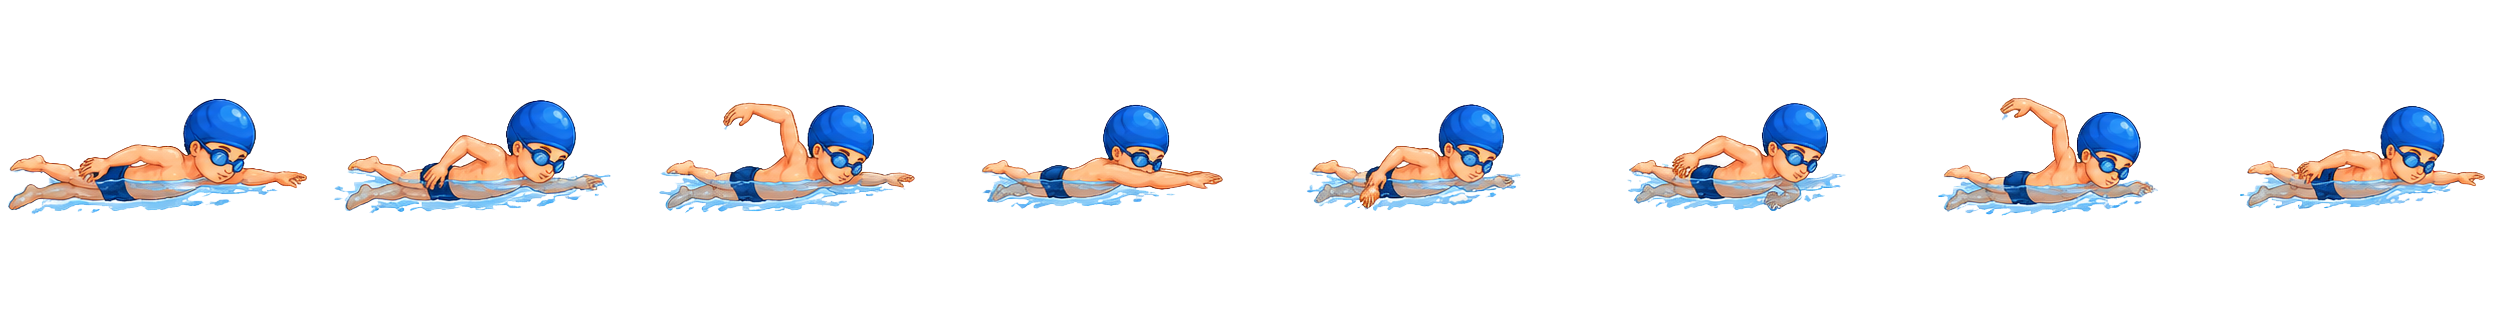
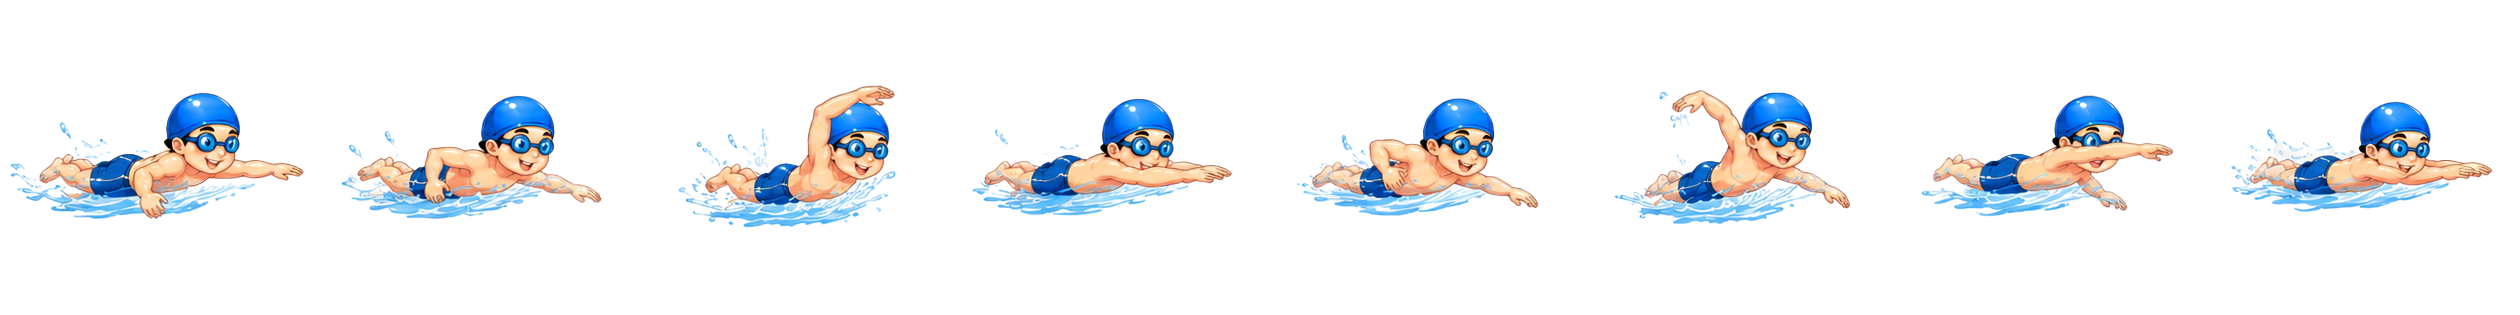
normalizacion

Changed region(s): [[0.0, 0.2571, 0.9905, 0.7143]]

diff --git a/swimtitans_ejemplo/lib/widgets/sprite_nadador.dart b/swimtitans_ejemplo/lib/widgets/sprite_nadador.dart
@@ -17,6 +17,12 @@ class ConfiguracionSpriteNadador {
   final double ancho;
   final double alto;
   final Duration duracionFrame;
+
+  Duration get duracionCiclo {
+    return Duration(
+      milliseconds: duracionFrame.inMilliseconds * cantidadFrames,
+    );
+  }
 }
 
 class SpriteNadador extends StatelessWidget {
@@ -42,8 +48,32 @@ class SpriteNadador extends StatelessWidget {
   static const configuracionLibre = ConfiguracionSpriteNadador(
     ruta: 'assets/images/swimmers/libre.png',
     cantidadFrames: 8,
-    ancho: 132,
-    alto: 80,
+    ancho: 100,
+    alto: 100,
+    duracionFrame: Duration(milliseconds: 100),
+  );
+
+  static const configuracionDorso = ConfiguracionSpriteNadador(
+    ruta: 'assets/images/swimmers/dorso.png',
+    cantidadFrames: 8,
+    ancho: 100,
+    alto: 100,
+    duracionFrame: Duration(milliseconds: 100),
+  );
+
+  static const configuracionPecho = ConfiguracionSpriteNadador(
+    ruta: 'assets/images/swimmers/pecho.png',
+    cantidadFrames: 8,
+    ancho: 100,
+    alto: 100,
+    duracionFrame: Duration(milliseconds: 100),
+  );
+
+  static const configuracionMariposa = ConfiguracionSpriteNadador(
+    ruta: 'assets/images/swimmers/mariposa.png',
+    cantidadFrames: 8,
+    ancho: 100,
+    alto: 100,
     duracionFrame: Duration(milliseconds: 100),
   );
 
@@ -57,6 +87,18 @@ class SpriteNadador extends StatelessWidget {
 
     if (tipoNado == TipoNado.libre) {
       return configuracionLibre;
+    }
+
+    if (tipoNado == TipoNado.dorso) {
+      return configuracionDorso;
+    }
+
+    if (tipoNado == TipoNado.pecho) {
+      return configuracionPecho;
+    }
+
+    if (tipoNado == TipoNado.mariposa) {
+      return configuracionMariposa;
     }
 
     return null;
@@ -87,6 +129,7 @@ class SpriteNadador extends StatelessWidget {
 
     if (configuracion != null) {
       return SpriteSheetNadador(
+        key: ValueKey('${configuracion.ruta}-$enEspera'),
         ruta: configuracion.ruta,
         cantidadFrames: configuracion.cantidadFrames,
         ancho: configuracion.ancho,

diff --git a/swimtitans_ejemplo/lib/pantallas/pantalla_inicio.dart b/swimtitans_ejemplo/lib/pantallas/pantalla_inicio.dart
@@ -99,25 +99,40 @@ class _EncabezadoInicio extends StatelessWidget {
 
   @override
   Widget build(BuildContext context) {
-    return const Column(
+    final anchoPantalla = MediaQuery.sizeOf(context).width;
+    final tamanoIcono = anchoPantalla < 420 ? 160.0 : 220.0;
+
+    return Column(
       children: [
-        Text(
+        const Text(
           'Swim Titans',
           textAlign: TextAlign.center,
           style: TextStyle(
-            fontSize: 42,
+            fontSize: 50,
             fontWeight: FontWeight.bold,
             color: Color(0xFF075985),
           ),
         ),
-        SizedBox(height: 8),
-        Text(
-          'Elige tu practica',
-          textAlign: TextAlign.center,
-          style: TextStyle(
-            fontSize: 18,
-            fontWeight: FontWeight.w600,
-            color: Color(0xFF0F172A),
+        const SizedBox(height: 16),
+        Container(
+          width: tamanoIcono,
+          height: tamanoIcono,
+          decoration: BoxDecoration(
+            borderRadius: BorderRadius.circular(28),
+            boxShadow: [
+              BoxShadow(
+                color: Colors.black.withAlpha(200),
+                blurRadius: 18,
+                offset: const Offset(0, 8),
+              ),
+            ],
+          ),
+          child: ClipRRect(
+            borderRadius: BorderRadius.circular(28),
+            child: Image.asset(
+              'assets/images/iconos/icono.png',
+              fit: BoxFit.cover,
+            ),
           ),
         ),
       ],

diff --git a/swimtitans_ejemplo/lib/pantallas/pantalla_juego.dart b/swimtitans_ejemplo/lib/pantallas/pantalla_juego.dart
@@ -4,6 +4,7 @@ import 'package:flutter/material.dart';
 
 import '../models/distancia_nado.dart';
 import '../models/tipo_nado.dart';
+import '../widgets/sprite_nadador.dart';
 import '../widgets/vista_piscina.dart';
 
 enum LadoToque { izquierdo, derecho }
@@ -34,6 +35,23 @@ class _PantallaJuegoState extends State<PantallaJuego> {
   double get progresoMeta => widget.distancia.progresoMeta;
   int get totalLargos => widget.distancia.largos;
 
+  Duration get duracionAccionSprite {
+    switch (widget.tipoNado) {
+      case TipoNado.libre:
+        return SpriteNadador.configuracionLibre.duracionCiclo +
+            const Duration(milliseconds: 100);
+      case TipoNado.dorso:
+        return SpriteNadador.configuracionDorso.duracionCiclo +
+            const Duration(milliseconds: 100);
+      case TipoNado.pecho:
+        return SpriteNadador.configuracionPecho.duracionCiclo +
+            const Duration(milliseconds: 100);
+      case TipoNado.mariposa:
+        return SpriteNadador.configuracionMariposa.duracionCiclo +
+            const Duration(milliseconds: 100);
+    }
+  }
+
   @override
   void dispose() {
     temporizadorEspera?.cancel();
@@ -52,7 +70,7 @@ class _PantallaJuegoState extends State<PantallaJuego> {
     }
 
     temporizadorEspera?.cancel();
-    temporizadorEspera = Timer(const Duration(milliseconds: 350), () {
+    temporizadorEspera = Timer(duracionAccionSprite, () {
       if (!mounted) {
         return;
       }

diff --git a/swimtitans_ejemplo/lib/aplicacion.dart b/swimtitans_ejemplo/lib/aplicacion.dart
@@ -2,6 +2,9 @@ import 'package:flutter/material.dart';
 
 import 'screens/pantalla_inicio.dart';
 
+const Color colorPrincipal = Colors.blue;
+const Color colorFondoAplicacion = Color(0xFFE6F7FF);
+
 class AplicacionSwimTitans extends StatelessWidget {
   const AplicacionSwimTitans({super.key});
 
@@ -11,8 +14,8 @@ class AplicacionSwimTitans extends StatelessWidget {
       title: 'Swim Titans',
       debugShowCheckedModeBanner: false,
       theme: ThemeData(
-        colorScheme: ColorScheme.fromSeed(seedColor: Colors.blue),
-        scaffoldBackgroundColor: const Color(0xFFE6F7FF),
+        colorScheme: ColorScheme.fromSeed(seedColor: colorPrincipal),
+        scaffoldBackgroundColor: colorFondoAplicacion,
         useMaterial3: true,
       ),
       home: const PantallaInicio(),

diff --git a/swimtitans_ejemplo/lib/widgets/selector_modo.dart b/swimtitans_ejemplo/lib/widgets/selector_modo.dart
@@ -18,7 +18,7 @@ class SelectorModo extends StatelessWidget {
         const SizedBox(width: 10),
         Expanded(
           child: _FichaModo(
-            etiqueta: '${ModoJuego.competencia.etiqueta}\nProximamente',
+            etiqueta: ModoJuego.competencia.etiqueta,
             estaSeleccionado: false,
             estaDeshabilitado: true,
           ),

diff --git a/swimtitans_ejemplo/lib/modelos/modo_juego.dart b/swimtitans_ejemplo/lib/modelos/modo_juego.dart
@@ -4,7 +4,7 @@ extension InfoModoJuego on ModoJuego {
   String get etiqueta {
     switch (this) {
       case ModoJuego.practica:
-        return 'Practica';
+        return 'Práctica';
       case ModoJuego.competencia:
         return 'Competencia';
     }
